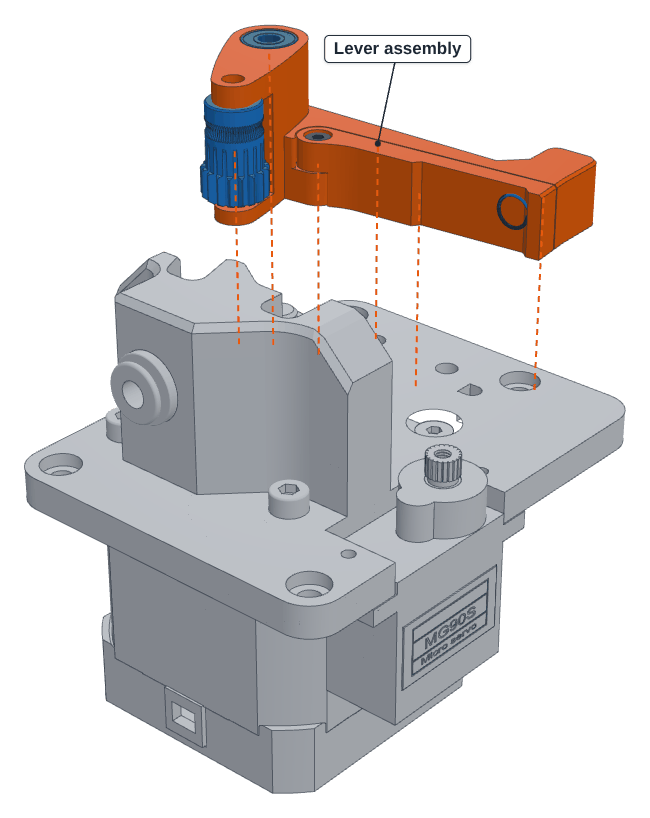
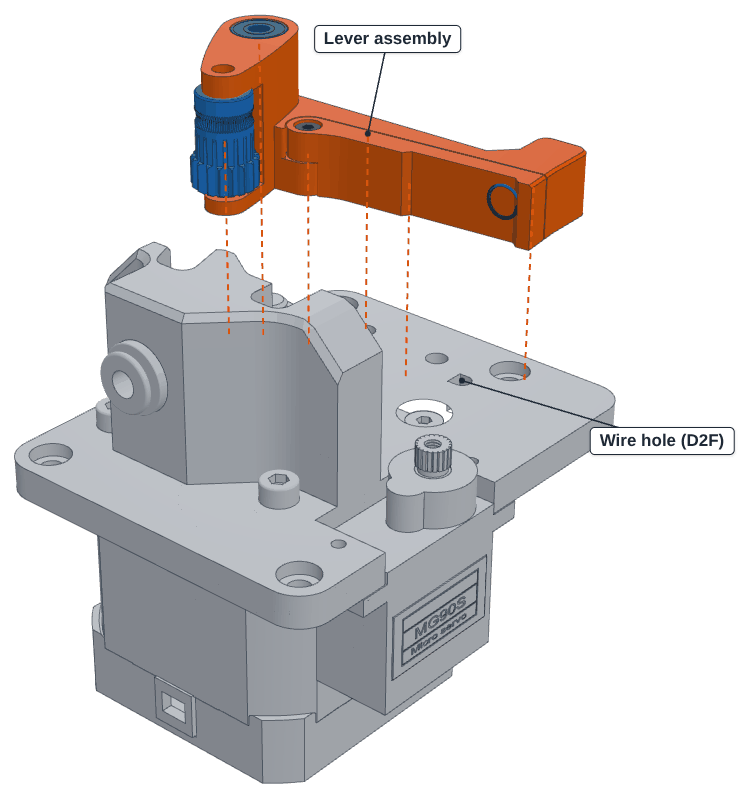
Assembly guide: magnets and switch wire hole
- 2x 6x3 mm neodymium magnets (lever back + Bowden-In housing, repelling)
- D-shaped hole in the main plate for the D2F-5 wires

Claude-Session: https://claude.ai/code/session_01VDtPnBwXqHuwKHs624Dn1u

Changed region(s): [[0.0, 0.0, 0.9846, 0.9925]]

diff --git a/docs/assembly.md b/docs/assembly.md
@@ -17,9 +17,8 @@ Bearing Horn Adapter
 | 4 | 693ZZ bearing | 2 | M3×10 SHCS |
 | 1 | Omron D2F-5 | 1 | M3×10 button head |
 | 2 | ECAS04 | 1 | M2×6 SHCS |
-| 1 | spring 0.4×5×15 | 2 | M2×10 selfcutting |
-| 2 | Neodym magnet 6x3mm | 2 | / |
-
+| 1 | spring 0.4×5×15 | 2 | M2×10 self-tapping |
+| 2 | neodymium magnet 6×3 | | |
 
 ## Steps
 
@@ -39,19 +38,20 @@ Bearing Horn Adapter
 
 <img src="images/assembly/04-servo.png" width="420" alt="Step 4">
 
-**5.** Lever: 2× 693ZZ, idler gear + shaft, spring, spring lever with M2×6 (must swing freely).
+**5.** Lever: 2× 693ZZ, idler gear + shaft, spring, spring lever with M2×6 (must swing freely), magnet into the back.
 
 <img src="images/assembly/05-lever.png" width="620" alt="Step 5">
 
-**6.** Lever onto the plate.
+**6.** Lever onto the plate. The D-shaped hole is for the switch wires (step 8).
 
 <img src="images/assembly/06-lever-on-plate.png" width="400" alt="Step 6">
 
-**7.** Housing: 693ZZ into the slot, D2F-5 (wired COM + NC) with 2× M2×10, ECAS04.
+**7.** Housing: 693ZZ into the slot, D2F-5 (wired COM + NC) with 2× M2×10, ECAS04, magnet.
+The two magnets must **repel** each other (same pole facing): they push the lever open when the servo releases.
 
 <img src="images/assembly/07-sensor.png" width="560" alt="Step 7">
 
-**8.** Housing on top: M3×35 through everything into the motor, 2× M3×10 from below.
+**8.** Switch wires down through the D-shaped hole, housing on top: M3×35 through everything into the motor, 2× M3×10 from below.
 
 <img src="images/assembly/08-housing.png" width="360" alt="Step 8">
 
